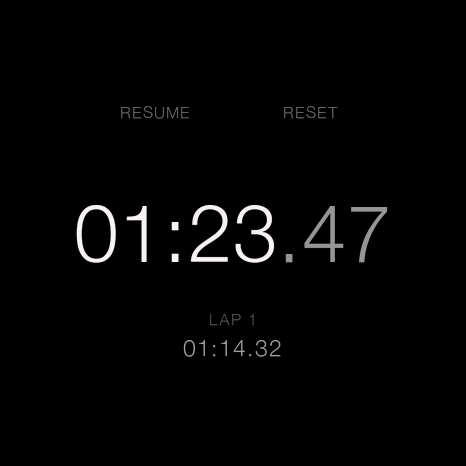
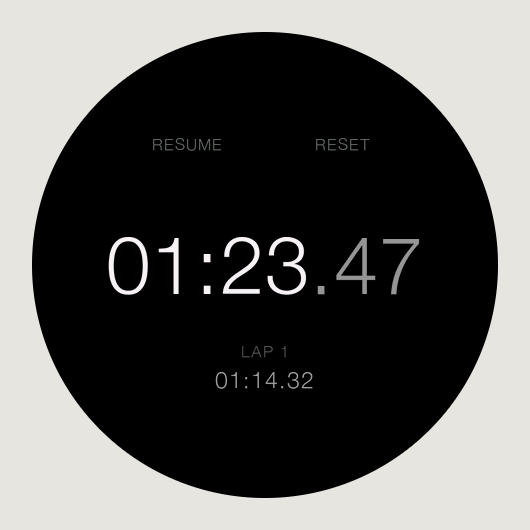
Show running and lap previews on a solid surround

diff --git a/examples/preview.rs b/examples/preview.rs
@@ -13,16 +13,30 @@ fn save(out: &Path, name: &str, watch: &Stopwatch, now: u64) {
     let mut fb = vec![0; PIXELS];
     Renderer::default().draw(&mut fb, &mut Rows::default(), watch, now, || {});
     let mut file = BufWriter::new(File::create(out.join(format!("{name}.ppm"))).unwrap());
-    write!(file, "P6\n{W} {W}\n255\n").unwrap();
-    for y in 0..W {
-        for x in 0..W {
-            let (nx, ny) = native_xy(x, y);
-            let c = u16::from_be(fb[ny * W + nx]);
-            let rgb = [
-                ((c >> 11) * 255 / 31) as u8,
-                (((c >> 5) & 63) * 255 / 63) as u8,
-                ((c & 31) * 255 / 31) as u8,
-            ];
+    let size = W + 64;
+    let background = [231, 229, 224];
+    write!(file, "P6\n{size} {size}\n255\n").unwrap();
+    for y in 0..size {
+        for x in 0..size {
+            let mut rgb = background;
+            if (32..W + 32).contains(&x) && (32..W + 32).contains(&y) {
+                let (sx, sy) = (x - 32, y - 32);
+                let (nx, ny) = native_xy(sx, sy);
+                let c = u16::from_be(fb[ny * W + nx]);
+                let screen = [
+                    ((c >> 11) * 255 / 31) as u8,
+                    (((c >> 5) & 63) * 255 / 63) as u8,
+                    ((c & 31) * 255 / 31) as u8,
+                ];
+                let dx = sx as f32 + 0.5 - W as f32 / 2.0;
+                let dy = sy as f32 + 0.5 - W as f32 / 2.0;
+                let coverage = (W as f32 / 2.0 - dx.hypot(dy) + 0.5).clamp(0.0, 1.0);
+                for i in 0..3 {
+                    rgb[i] = (f32::from(screen[i]) * coverage
+                        + f32::from(background[i]) * (1.0 - coverage))
+                        .round() as u8;
+                }
+            }
             file.write_all(&rgb).unwrap();
         }
     }
@@ -42,4 +56,15 @@ fn main() {
     let mut long = Stopwatch::default();
     long.press(Button::StartPause, 0);
     save(out, "hours", &long, 45_296_780_000);
+    if env::args().any(|arg| arg == "--animate") {
+        let frames = out.join("frames");
+        std::fs::create_dir_all(&frames).unwrap();
+        // A real running total and a fixed lap interval, rendered by the firmware code.
+        let mut running = Stopwatch::default();
+        running.press(Button::StartPause, 0);
+        running.press(Button::LapReset, 74_320_000);
+        for frame in 0..80 {
+            save(&frames, &format!("{frame:03}"), &running, 83_000_000 + frame * 50_000);
+        }
+    }
 }

diff --git a/README.md b/README.md
@@ -4,7 +4,9 @@ A minimal, button-only Rust stopwatch for the Waveshare ESP32-S3-Touch-AMOLED-1.
 
 [Flash over USB](https://xn--sg8hhb.ws/flasher/?project=stopwatch) · [Get the device](https://www.waveshare.com/esp32-s3-touch-amoled-1.75c.htm) · [Firmware](https://github.com/xberenguer/stopwatch/releases/latest)
 
-<img src="previews/ready.png" width="260" alt="Stopwatch display">
+| Ready | Running | Lap |
+|---|---|---|
+| <img src="previews/ready.png" width="220" alt="Ready stopwatch on a black circular display"> | <img src="previews/running.gif" width="220" alt="Running stopwatch animation with the latest lap time below the total"> | <img src="previews/lap.png" width="220" alt="Stopwatch showing a recorded lap below the total"> |
 
 Hold the device with both buttons on top.
 
